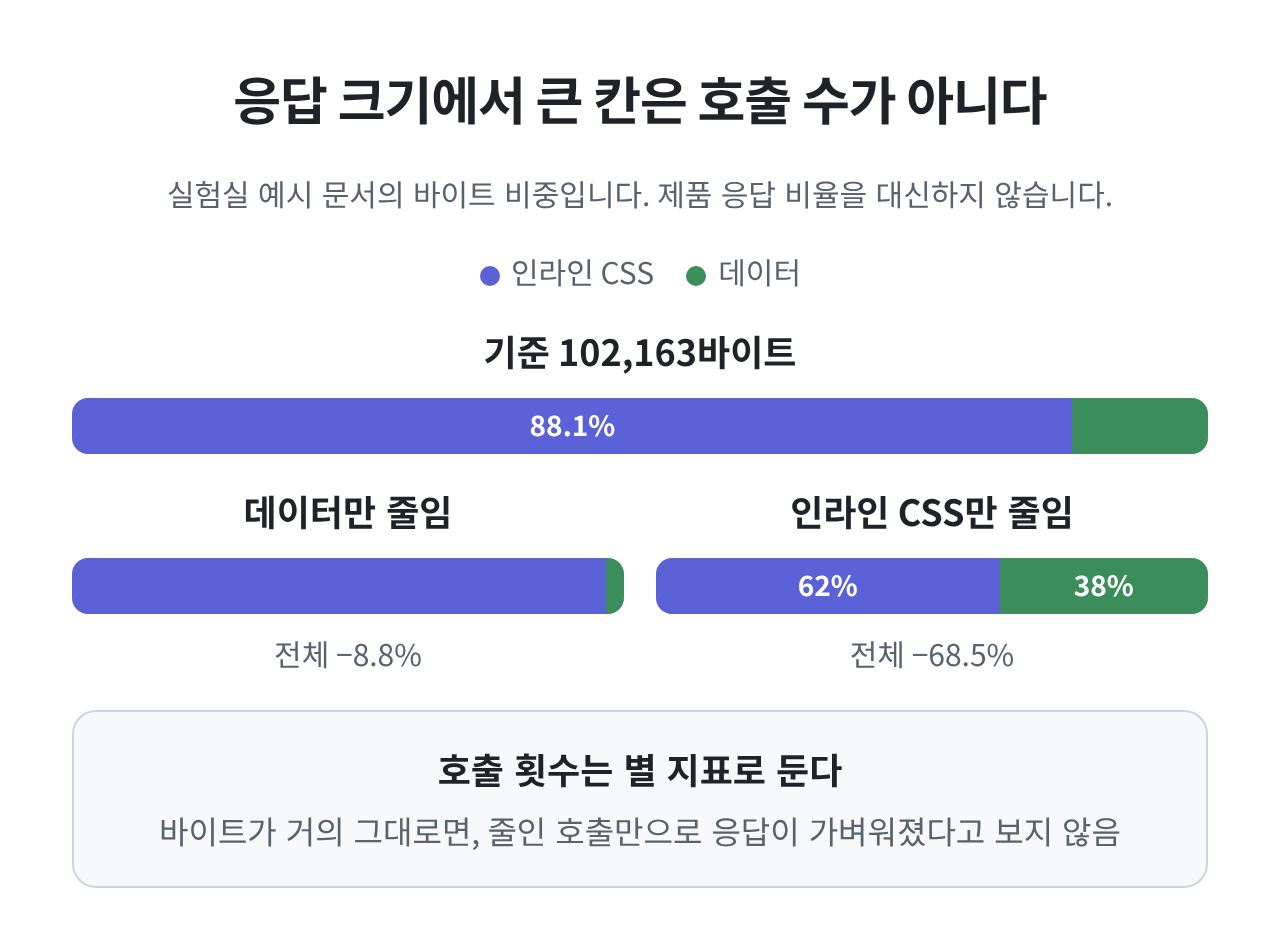
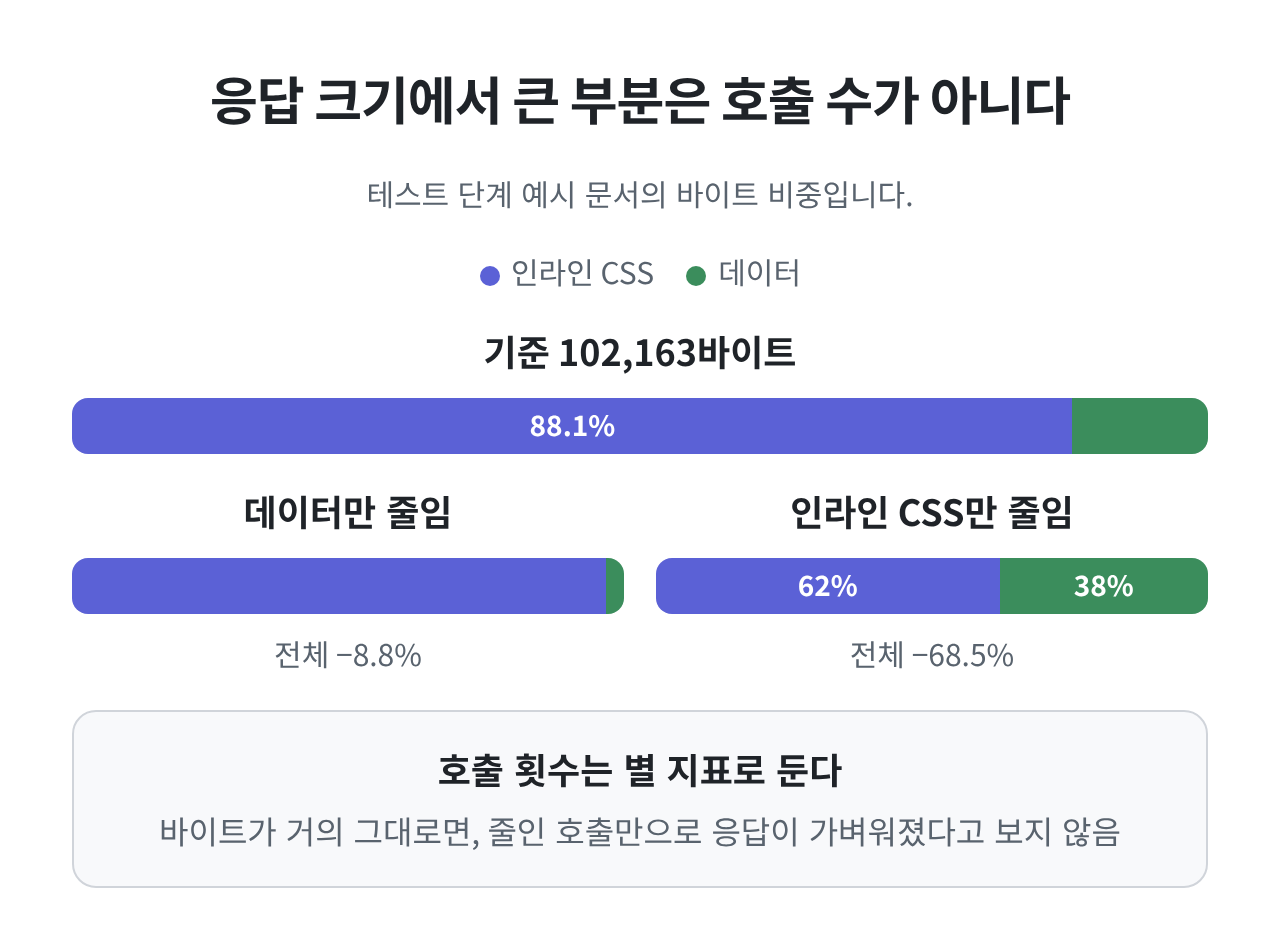
글 표현 다듬기: 「칸」을 필드·부분 등 뜻에 맞는 말로, 그림 4장 갱신 (#69)

Changed region(s): [[0.1562, 0.0609, 0.8438, 0.1523], [0.125, 0.1828, 0.875, 0.2437]]

diff --git a/_posts/2026-11-16-pin-examples-and-filter.md b/_posts/2026-11-16-pin-examples-and-filter.md
@@ -1,40 +1,40 @@
 ---
-title: "지시문 예시를 내부 칸에 두고 읽을 때 거르기"
+title: "지시문 예시를 내부 필드에 두고 읽을 때 거르기"
 date: 2026-11-16
 categories: [일일 회고]
-description: "계획 지시문의 가정 예시가 사용자에게 보이는 소개에 섞여 다음 초안에 따라 퍼졌습니다. 예시 자리를 내부 칸으로 못박고, 새 소개를 읽는 코드에서 그 문장 패턴을 거르기로 했습니다."
+description: "계획 지시문의 가정 예시가 사용자에게 보이는 소개에 섞여 다음 초안에 따라 퍼졌습니다. 예시 자리를 내부 필드로 못박고, 새 소개를 읽는 코드에서 그 문장 패턴을 거르기로 했습니다."
 ---
 
-지시문의 가정 칸에만 두려고 한 문장이, 사용자가 정한 것처럼 보이는 소개 끝에 붙었습니다. 처음에는 한 번 잘못 나온 문장으로 보였는데, 이미 만든 소개가 다음 호출의 문맥에 실려 초안이 그 문장을 따라 쓰며 퍼졌습니다. 그래서 예시의 자리를 내부 칸으로 못박고, 새 소개를 읽는 코드에서 그 문장 패턴을 한 번 더 거르기로 했습니다.
+지시문의 assumptions 필드에만 두려고 한 문장이, 사용자가 정한 것처럼 보이는 소개 끝에 붙었습니다. 처음에는 한 번 잘못 나온 문장으로 보였는데, 이미 만든 소개가 다음 호출의 문맥에 실려 초안이 그 문장을 따라 쓰며 퍼졌습니다. 그래서 예시의 자리를 내부 필드로 못박고, 새 소개를 읽는 코드에서 그 문장 패턴을 한 번 더 거르기로 했습니다.
 
 이 글은 생성 모델에 계획 지시문을 주고, 그 출력을 다음 호출의 문맥으로 다시 넣는 분께 도움이 됩니다.
 
 ## 한눈에 보는 결론
 
 - 제약: 사용자에게 보이는 소개에는 내부 가정 예시가 들어가면 안 되고, 이전 소개가 다음 문맥에 들어가도 그 문장이 다시 살아나면 안 됩니다.
-- 결정: 지시문에서 예시는 assumptions 같은 내부 칸 전용이라고 못박고, 소개를 펼치는 지시문에도 가정 문장을 넣지 말라고 적었습니다. 그와 별도로, 새로 만든 소개를 읽을 때 그 문장 패턴을 제거합니다. 이미 저장한 글을 고치는 경로에는 이 거르기를 두지 않았습니다.
+- 결정: 지시문에서 예시는 assumptions 같은 내부 필드 전용이라고 못박고, 소개를 펼치는 지시문에도 가정 문장을 넣지 말라고 적었습니다. 그와 별도로, 새로 만든 소개를 읽을 때 그 문장 패턴을 제거합니다. 이미 저장한 글을 고치는 경로에는 이 거르기를 두지 않았습니다.
 - 확인: 일반 예시로 소개 문자열에 가정 예시 문장을 넣은 뒤 거르기 함수를 돌리면 그 문장은 빠지고 본문은 남았습니다. 고친 뒤에는 새 대화에서 소개를 만들어 저장해 보니, 보이는 소개에 그 가정 문장이 없었습니다.
 
 ## 과제와 제약
 
-목표는 공개 소개 초안을 만들되, 계획 단계에서만 쓰는 가정이 사용자 화면에 나가지 않게 하는 것이었습니다. 가정 예시는 「가정:」처럼 표시된 짧은 메모가 아니라, 소개 본문처럼 읽히는 완성된 문장이었습니다. 생성 결과를 다음 호출의 문맥으로 다시 넣는 구조라, 한 번 섞인 문장은 다음 초안의 재료가 됩니다. 지시문에서 예시를 없애 버리면 모델이 내부 칸을 어떻게 채울지 보기 어려워, 예시는 남기되 자리가 분명해야 했습니다.
+목표는 공개 소개 초안을 만들되, 계획 단계에서만 쓰는 가정이 사용자 화면에 나가지 않게 하는 것이었습니다. 가정 예시는 「가정:」처럼 표시된 짧은 메모가 아니라, 소개 본문처럼 읽히는 완성된 문장이었습니다. 생성 결과를 다음 호출의 문맥으로 다시 넣는 구조라, 한 번 섞인 문장은 다음 초안의 재료가 됩니다. 지시문에서 예시를 없애 버리면 모델이 내부 필드를 어떻게 채울지 보기 어려워, 예시는 남기되 자리가 분명해야 했습니다.
 
 ## 어떤 방법을 골랐는지
 
-지시문만 고쳐서 「예시는 복사하지 말라」고 적는 방법은, 이미 섞여 나온 문장이 다음 문맥에 남아 있으면 다시 따라 쓰일 수 있습니다. 반대로 읽는 쪽에서만 거르면, 같은 뜻의 문장이 조금 다른 표기로 나올 때 빠지지 않을 수 있고, 모델은 여전히 소개 칸에 그 문장을 쓰려 합니다. 그래서 계획 지시문에서 예시의 자리를 내부 칸으로 못박고, 소개를 펼치는 지시문에도 가정이나 설명을 넣지 말라고 적었습니다. 그와 별도로, 새로 만든 소개를 읽는 코드에서 그 패턴을 거르는 두 겹을 두었습니다.
+지시문만 고쳐서 「예시는 복사하지 말라」고 적는 방법은, 이미 섞여 나온 문장이 다음 문맥에 남아 있으면 다시 따라 쓰일 수 있습니다. 반대로 읽는 쪽에서만 거르면, 같은 뜻의 문장이 조금 다른 표기로 나올 때 빠지지 않을 수 있고, 모델은 여전히 description 필드에 그 문장을 쓰려 합니다. 그래서 계획 지시문에서 예시의 자리를 내부 필드로 못박고, 소개를 펼치는 지시문에도 가정이나 설명을 넣지 말라고 적었습니다. 그와 별도로, 새로 만든 소개를 읽는 코드에서 그 패턴을 거르는 두 겹을 두었습니다.
 
 ## 기본 구조
 
 생성 한 번의 출력은 끝이 아닙니다. 그 출력이 다음 호출의 문맥으로 들어가면, 잘못된 문장도 다음 초안의 입력이 됩니다.
 
-![계획 지시문의 가정 예시가 소개에 섞인 뒤, 다음 문맥으로 다시 들어가 퍼지는 흐름과, 내부 칸 고정과 읽기 거르기로 끊는 구조](/dev-articles/assets/2026-11-16-pin-examples-and-filter-01.png)
+![계획 지시문의 가정 예시가 소개에 섞인 뒤, 다음 문맥으로 다시 들어가 퍼지는 흐름과, 내부 필드 고정과 읽기 거르기로 끊는 구조](/dev-articles/assets/2026-11-16-pin-examples-and-filter-01.png)
 
-실제 고친 모양은, 지시문에서 예시가 들어갈 칸을 명시하고, 새로 만든 소개를 읽을 때 그 예시 문장을 빼는 쪽입니다. 아래는 그 구조를 일반 예시로 옮긴 코드입니다. 제품 지시문 원문이나 제품 거르기 코드가 아닙니다.
+실제 고친 모양은, 지시문에서 예시가 들어갈 필드를 명시하고, 새로 만든 소개를 읽을 때 그 예시 문장을 빼는 쪽입니다. 아래는 그 구조를 일반 예시로 옮긴 코드입니다. 제품 지시문 원문이나 제품 거르기 코드가 아닙니다.
 
 ```js
 const PLAN_PROMPT = `당신은 공개 소개 초안을 만듭니다.
-assumptions 칸에는 내부 가정만 적습니다. 이 칸의 문장은 사용자에게 보여 주지 않습니다.
-description 칸에는 사용자에게 보일 문장만 적습니다.
+assumptions 필드에는 내부 가정만 적습니다. 이 필드의 문장은 사용자에게 보여 주지 않습니다.
+description 필드에는 사용자에게 보일 문장만 적습니다.
 
 assumptions 예시(내부 전용, description에 복사하지 말 것):
 - 따로 고르지 않아 매달 이어지는 요금제로 두었습니다.
@@ -79,25 +79,25 @@ export function parseNewDraft(raw) {
 
 그 문장은 소개를 펼치는 단계에서 먼저 나왔고, 처음 출처는 계획 지시문의 가정 예시였습니다. 이미 만든 소개가 다음 호출의 문맥에 같이 실렸고, 다음 초안이 그 문장을 따라 쓰며 여러 결과에 퍼졌습니다. 출력만 한 번 고치면 끝날 문제가 아니었습니다. 문맥으로 다시 들어가는 입력을 같이 손봐야 했습니다.
 
-### 내부 칸 고정과 읽기 단계 거르기
+### 내부 필드 고정과 읽기 단계 거르기
 
-계획 지시문에서 가정 예시는 내부 칸 전용이라고 못박아, 소개 칸에 복사하지 말라고 적었습니다. 소개를 펼치는 지시문에도, 소개는 사용자에게 보이는 글이니 가정이나 설명을 넣지 말라고 적었습니다. 그와 별도로, 새로 만든 소개를 읽는 코드에서 「사용자가 고르지 않았다」는 말과 「그래서 이렇게 두었다」는 말이 한 문장에 같이 있는 패턴을 제거했습니다. 지시문이 어긋나도 화면에 나가기 전에 한 번 더 걸리게 하려는 선택이었습니다.
+계획 지시문에서 가정 예시는 내부 필드 전용이라고 못박아, description 필드에 복사하지 말라고 적었습니다. 소개를 펼치는 지시문에도, 소개는 사용자에게 보이는 글이니 가정이나 설명을 넣지 말라고 적었습니다. 그와 별도로, 새로 만든 소개를 읽는 코드에서 「사용자가 고르지 않았다」는 말과 「그래서 이렇게 두었다」는 말이 한 문장에 같이 있는 패턴을 제거했습니다. 지시문이 어긋나도 화면에 나가기 전에 한 번 더 걸리게 하려는 선택이었습니다.
 
 ## 예시가 출력으로 번지는 이유
 
 모델은 지시문의 규칙만 따르는 것이 아니라, 옆에 적어 둔 예시의 모양을 패턴으로 집어 다음 출력에 적용합니다. OpenAI 공식 문서의 few-shot 절은, 입력과 출력 예시를 프롬프트에 몇 개 넣으면 모델을 새 작업 쪽으로 이끌 수 있고, 모델이 그 예시에서 패턴을 스스로 집어 프롬프트에 적용한다고 적습니다. Brown 등의 논문도, 가중치를 바꾸지 않은 채 문맥에 과제 예시를 몇 개 보여 주면 모델이 그 다음 입력을 같은 방식으로 이어서 쓴다고 설명합니다.
 
-그래서 가정 칸을 채우는 법이 궁금하다고 소개처럼 읽히는 예시를 지시문에 두면, 그 문장 자체가 소개 칸의 재료가 될 수 있습니다. 이미 나온 소개를 다음 문맥에 다시 넣으면, 한 번 섞인 문장은 다음 초안이 따라 쓸 예시가 됩니다. 지시문에 「복사하지 말라」고만 적어서는, 이 두 번째 입력을 막기 어렵습니다.
+그래서 assumptions 필드를 채우는 법이 궁금하다고 소개처럼 읽히는 예시를 지시문에 두면, 그 문장 자체가 description 필드의 재료가 될 수 있습니다. 이미 나온 소개를 다음 문맥에 다시 넣으면, 한 번 섞인 문장은 다음 초안이 따라 쓸 예시가 됩니다. 지시문에 「복사하지 말라」고만 적어서는, 이 두 번째 입력을 막기 어렵습니다.
 
-## 스키마로 칸을 나누는 방법과 비교
+## 스키마로 필드를 나누는 방법과 비교
 
-칸을 더 단단히 나누는 방법으로는, 모델이 JSON 스키마를 지키게 하는 structured output이 있습니다. OpenAI 문서는 structured output이 거절하지 않고 끝까지 만든 출력을, 넘겨 준 JSON 스키마에 맞추어 제한한다고 적습니다. JSON 모드만 켜면 유효한 JSON이 나온다는 점은 같지만, 스키마를 지킨다는 보장은 structured output에만 있습니다. 같은 문서는, 스키마가 담지 못한 업무 규칙은 응용 쪽에서 따로 검사해야 한다고도 적습니다.
+필드를 더 단단히 나누는 방법으로는, 모델이 JSON 스키마를 지키게 하는 structured output이 있습니다. OpenAI 문서는 structured output이 거절하지 않고 끝까지 만든 출력을, 넘겨 준 JSON 스키마에 맞추어 제한한다고 적습니다. JSON 모드만 켜면 유효한 JSON이 나온다는 점은 같지만, 스키마를 지킨다는 보장은 structured output에만 있습니다. 같은 문서는, 스키마가 담지 못한 업무 규칙은 응용 쪽에서 따로 검사해야 한다고도 적습니다.
 
-이 일을 structured output만으로 맡기면, assumptions와 description이 다른 칸으로 나뉘는 쪽은 좋아질 수 있습니다. 다만 description이 문자열인 이상, 스키마는 그 칸에 어떤 문장이 들어가도 형식이 맞으면 통과시킵니다. 가정 예시가 소개 문장으로 들어가는 일은 스키마가 담지 못한 규칙이라, 칸을 나눈 뒤에도 소개를 읽는 쪽에서 그 패턴을 검사해야 합니다. 그래서 지금은 지시문에서 자리를 못박고, 새로 만든 소개를 읽을 때 거르는 두 겹을 두었습니다. structured output은 칸을 나누는 장치를 더할 때 다시 보면 됩니다.
+이 일을 structured output만으로 맡기면, assumptions와 description이 다른 필드로 나뉘는 쪽은 좋아질 수 있습니다. 다만 description이 문자열인 이상, 스키마는 그 필드에 어떤 문장이 들어가도 형식이 맞으면 통과시킵니다. 가정 예시가 소개 문장으로 들어가는 일은 스키마가 담지 못한 규칙이라, 필드를 나눈 뒤에도 소개를 읽는 쪽에서 그 패턴을 검사해야 합니다. 그래서 지금은 지시문에서 자리를 못박고, 새로 만든 소개를 읽을 때 거르는 두 겹을 두었습니다. structured output은 필드를 나누는 장치를 더할 때 다시 보면 됩니다.
 
 ## 한계
 
-거르기는 「고르지 않았다」와 「두었다」가 한 문장에 같이 있는 패턴만 빼므로, 표현이 조금만 바뀌면 남을 수 있습니다. 지시문에서 자리를 못박는 일은 모델이 칸을 지키게 돕는 장치이지, 출력을 보증하지는 않습니다. 이미 저장한 글을 고치는 경로에는 이 거르기를 두지 않았으므로, 예전에 섞여 들어간 문장은 그 경로만으로는 빠지지 않습니다. 위 코드의 예시 문장과 거르기 결과는 일반 예시입니다.
+거르기는 「고르지 않았다」와 「두었다」가 한 문장에 같이 있는 패턴만 빼므로, 표현이 조금만 바뀌면 남을 수 있습니다. 지시문에서 자리를 못박는 일은 모델이 필드를 지키게 돕는 장치이지, 출력을 보증하지는 않습니다. 이미 저장한 글을 고치는 경로에는 이 거르기를 두지 않았으므로, 예전에 섞여 들어간 문장은 그 경로만으로는 빠지지 않습니다. 위 코드의 예시 문장과 거르기 결과는 일반 예시입니다.
 
 ## 확인 방법
 
@@ -121,10 +121,10 @@ const parsed = parseNewDraft(leaked)
 ## 정리
 
 - 지시문 예시는 출력으로 번질 수 있고, 다음 문맥에 들어가면 따라 퍼집니다.
-- 예시의 자리는 내부 칸으로 못박고, 소개를 펼치는 지시문에도 가정을 넣지 말라고 적습니다.
+- 예시의 자리는 내부 필드로 못박고, 소개를 펼치는 지시문에도 가정을 넣지 말라고 적습니다.
 - 새로 만든 소개를 읽을 때 그 문장 패턴을 한 번 더 거릅니다.
 
-지시문 예시는 내부 칸에 두고, 공개 글을 읽을 때 한 번 더 거르려고 합니다.
+지시문 예시는 내부 필드에 두고, 공개 글을 읽을 때 한 번 더 거르려고 합니다.
 
 ## 참고
 

diff --git a/_posts/2026-11-20-test-platform-to-reduce-qa-load.md b/_posts/2026-11-20-test-platform-to-reduce-qa-load.md
@@ -65,7 +65,7 @@ console.log(has());                       // { textContent: true,  innerText: fa
 
 그 뒤에 QA 동료들이 만든 TC 자동화 저장소와 e2e 저장소를 합치면 어떻겠느냐는 의견이 나왔습니다. 처음에는 두 저장소를 아예 따로 둘 생각이었습니다. 다만 QA의 리소스를 줄이고 생산성을 올리려면 어떻게든 합쳐서, 자동화한 검증을 QA가 믿을 수 있는 구조를 만들어야 한다고 생각을 바꿨습니다.
 
-그 구조에서는 에이전트가 코드가 아니라 기획 문서와 디자인을 보고 TC를 만들도록 계획했습니다. 기획 문서는 노션, 디자인은 Figma입니다. TC를 만들 때 기획 문서의 어떤 구절을 참조했고 Figma의 어떤 노드를 보고 만들었는지 근거를 댈 수 있게 하는 구조입니다. TC에는 출처를 적는 칸이 있어서, 그 칸에 기획 문서의 구절과 Figma의 노드를 적게 하는 계획입니다.
+그 구조에서는 에이전트가 코드가 아니라 기획 문서와 디자인을 보고 TC를 만들도록 계획했습니다. 기획 문서는 노션, 디자인은 Figma입니다. TC를 만들 때 기획 문서의 어떤 구절을 참조했고 Figma의 어떤 노드를 보고 만들었는지 근거를 댈 수 있게 하는 구조입니다. TC에는 출처 필드가 있어서, 그 필드에 기획 문서의 구절과 Figma의 노드를 적게 하는 계획입니다.
 
 ```mermaid
 flowchart TD
@@ -135,7 +135,7 @@ $ e2e run --dry demo/TC-DEMO-001.yaml
 exit 1
 ```
 
-이 출력은 설명을 위한 예시입니다. TC는 출처가 된 원문 문장 목록도 품고, 스텝마다 어느 줄에서 왔는지를 적습니다. 대응표의 빈칸이 곧 누락이라서, `--dry`가 이것도 브라우저 없이 집합 뺄셈으로 검사합니다.
+이 출력은 설명을 위한 예시입니다. TC는 출처가 된 원문 문장 목록도 품고, 스텝마다 어느 줄에서 왔는지를 적습니다. 대응표에서 비어 있는 행이 곧 누락이라서, `--dry`가 이것도 브라우저 없이 집합 뺄셈으로 검사합니다.
 
 ## TC 정본 후보와 사용하지 않은 이유
 

diff --git a/_posts/2026-11-04-mute-by-cause.md b/_posts/2026-11-04-mute-by-cause.md
@@ -7,7 +7,7 @@ description: "axios 0.21.4는 중단과 시간 초과를 ECONNABORTED로 같이 
 
 한 오류 코드 아래를 통째로 끄면, 남겨야 할 신호까지 같이 사라집니다. 오류 알림이 크게 늘었을 때, 다른 앱에서 연 웹 화면이 다시 앱으로 넘어가며 끊긴 요청이 한꺼번에 잡힌 것으로 보였고, 그 실패 코드를 끄면 조용해질 거라고 생각했습니다. 다만 쓰던 클라이언트 axios 0.21.4는 브라우저가 끊은 요청과 시간 초과를 같은 오류 코드 ECONNABORTED로 남겨, 그 코드를 끄면 실제 시간 초과까지 안 보이게 됩니다. 그래서 브라우저가 끊은 요청만 보고에서 빼고, 시간 초과는 남겨 두었습니다.
 
-이 글은 실패 알림이 늘었을 때 오류 코드를 묶어 끄려 하거나, 중단과 시간 초과가 같은 칸에 있는 분께 도움이 됩니다.
+이 글은 실패 알림이 늘었을 때 오류 코드를 묶어 끄려 하거나, 중단과 시간 초과가 같은 코드로 묶여 있는 분께 도움이 됩니다.
 
 ## 과제와 제약
 
@@ -49,7 +49,7 @@ export function shouldReport(error, response) {
 
 ### 처음 판단: 공유 코드를 통째로 끄면 조용해질 것
 
-알림이 늘었을 때 가장 쉬운 대응은 그 실패 코드를 통째로 끄는 것이었습니다. 다만 같은 칸에 실제 시간 초과가 들어 있으면, 시끄러운 쪽만 끄려다 장애 신호까지 같이 꺼집니다.
+알림이 늘었을 때 가장 쉬운 대응은 그 실패 코드를 통째로 끄는 것이었습니다. 다만 같은 코드에 실제 시간 초과가 들어 있으면, 시끄러운 쪽만 끄려다 장애 신호까지 같이 꺼집니다.
 
 ### 브라우저가 끊은 요청만 제외, 시간 초과는 유지
 

diff --git a/_posts/2026-11-18-api-spec-in-the-browser.md b/_posts/2026-11-18-api-spec-in-the-browser.md
@@ -81,7 +81,7 @@ flowchart TB
 
 에이전트를 고도화하다 보면, 처음 계획에는 없던 데이터가 더 필요해질 때가 있습니다. 자세히 보면 그건 유저에게 필요한 기능인데, 우리가 놓치고 있던 경우이기도 했습니다.
 
-API를 그대로 읽는 구조 덕분에, 그 빈칸이 비교적 빨리 보였습니다. 에이전트가 할 일을 설계하며 확인하려던 값이 API에 없던 자리가, 유저 화면에서도 그 값이 빠져 있던 자리와 겹치는 일이 있었습니다. 예를 들어 에이전트가 만든 결과물 하나가 이후 실제로 팔렸는지 확인하려 했는데, 응답에 그 결과물을 이어 줄 식별자가 없었고, 사람이 쓰는 관리 화면도 같은 질문에 답하지 못했습니다. 사람에게 필요한 것이 에이전트에게도 필요해지는 경험은, 뒤에서 다시 이어집니다.
+API를 그대로 읽는 구조 덕분에, 그 빠진 부분이 비교적 빨리 보였습니다. 에이전트가 할 일을 설계하며 확인하려던 값이 API에 없던 자리가, 유저 화면에서도 그 값이 빠져 있던 자리와 겹치는 일이 있었습니다. 예를 들어 에이전트가 만든 결과물 하나가 이후 실제로 팔렸는지 확인하려 했는데, 응답에 그 결과물을 이어 줄 식별자가 없었고, 사람이 쓰는 관리 화면도 같은 질문에 답하지 못했습니다. 사람에게 필요한 것이 에이전트에게도 필요해지는 경험은, 뒤에서 다시 이어집니다.
 
 ![에이전트를 고도화하다 필요한 데이터가 더 생기면, API 명세에 그 값이 없는 때가 유저에게 빠져 있던 기능과 겹치는 과정입니다.](/dev-articles/assets/2026-11-18-api-spec-in-the-browser-01.png)
 

diff --git a/_posts/2026-11-20-failed-agent-harness-dailyagent-retrospective.md b/_posts/2026-11-20-failed-agent-harness-dailyagent-retrospective.md
@@ -89,7 +89,7 @@ if (!/^[a-zA-Z0-9/_.\-]+$/.test(trimmed)) {
 
 혼자 쓰던 도구를 팀이 쓸 수 있게 하려고, 사용 가이드와 템플릿을 만들어 공유했습니다. 동료에게 써 보고 평가해 달라고 부탁했고, 동료들도 실제로 시도해 보았습니다. 결과는 적응하지 못했다는 것이었습니다.
 
-이유는 도구의 기능이 아니라 적응 자체에 드는 비용이었다고 봅니다. dailyagent는 제 보드의 상태 값과 기준 브랜치, 선행 작업 같은 칸을 전제로 움직입니다. 그 구조에 자기 업무를 옮겨 담는 일은, 태스크를 맡기기 전에 이미 리소스를 쓰는 일이었습니다. 도구가 아무리 잘 돌아도, 쓰는 사람의 흐름에 맞지 않으면 번지지 않았습니다.
+이유는 도구의 기능이 아니라 적응 자체에 드는 비용이었다고 봅니다. dailyagent는 제 보드의 상태 값과 기준 브랜치, 선행 작업 같은 필드를 전제로 움직입니다. 그 구조에 자기 업무를 옮겨 담는 일은, 태스크를 맡기기 전에 이미 리소스를 쓰는 일이었습니다. 도구가 아무리 잘 돌아도, 쓰는 사람의 흐름에 맞지 않으면 번지지 않았습니다.
 
 ## 주기 실행에서 설계 우선 실행으로
 
